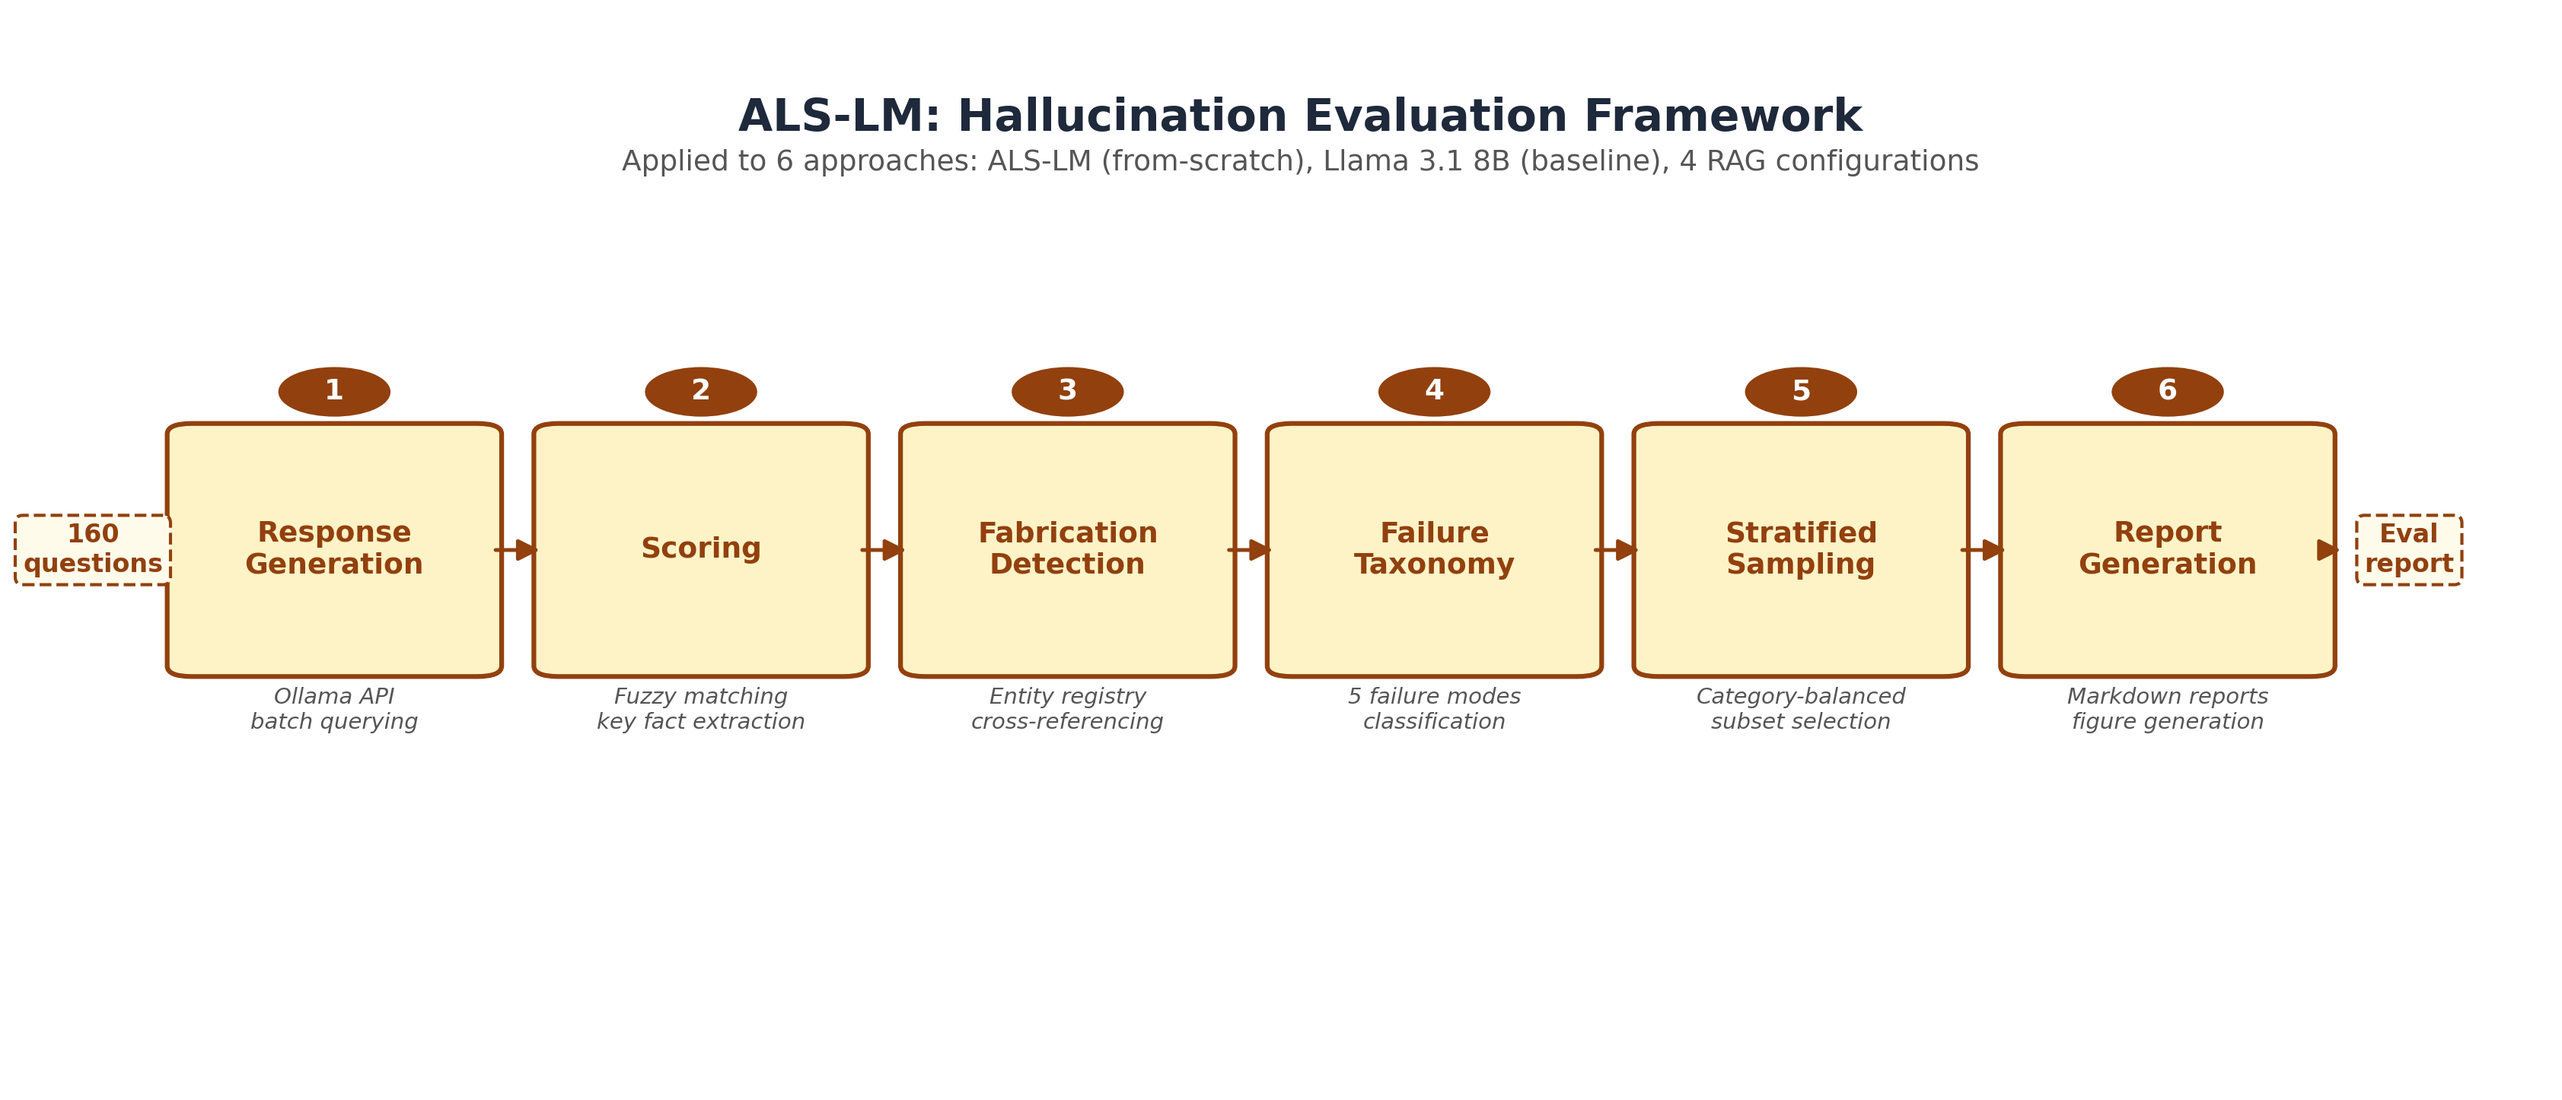
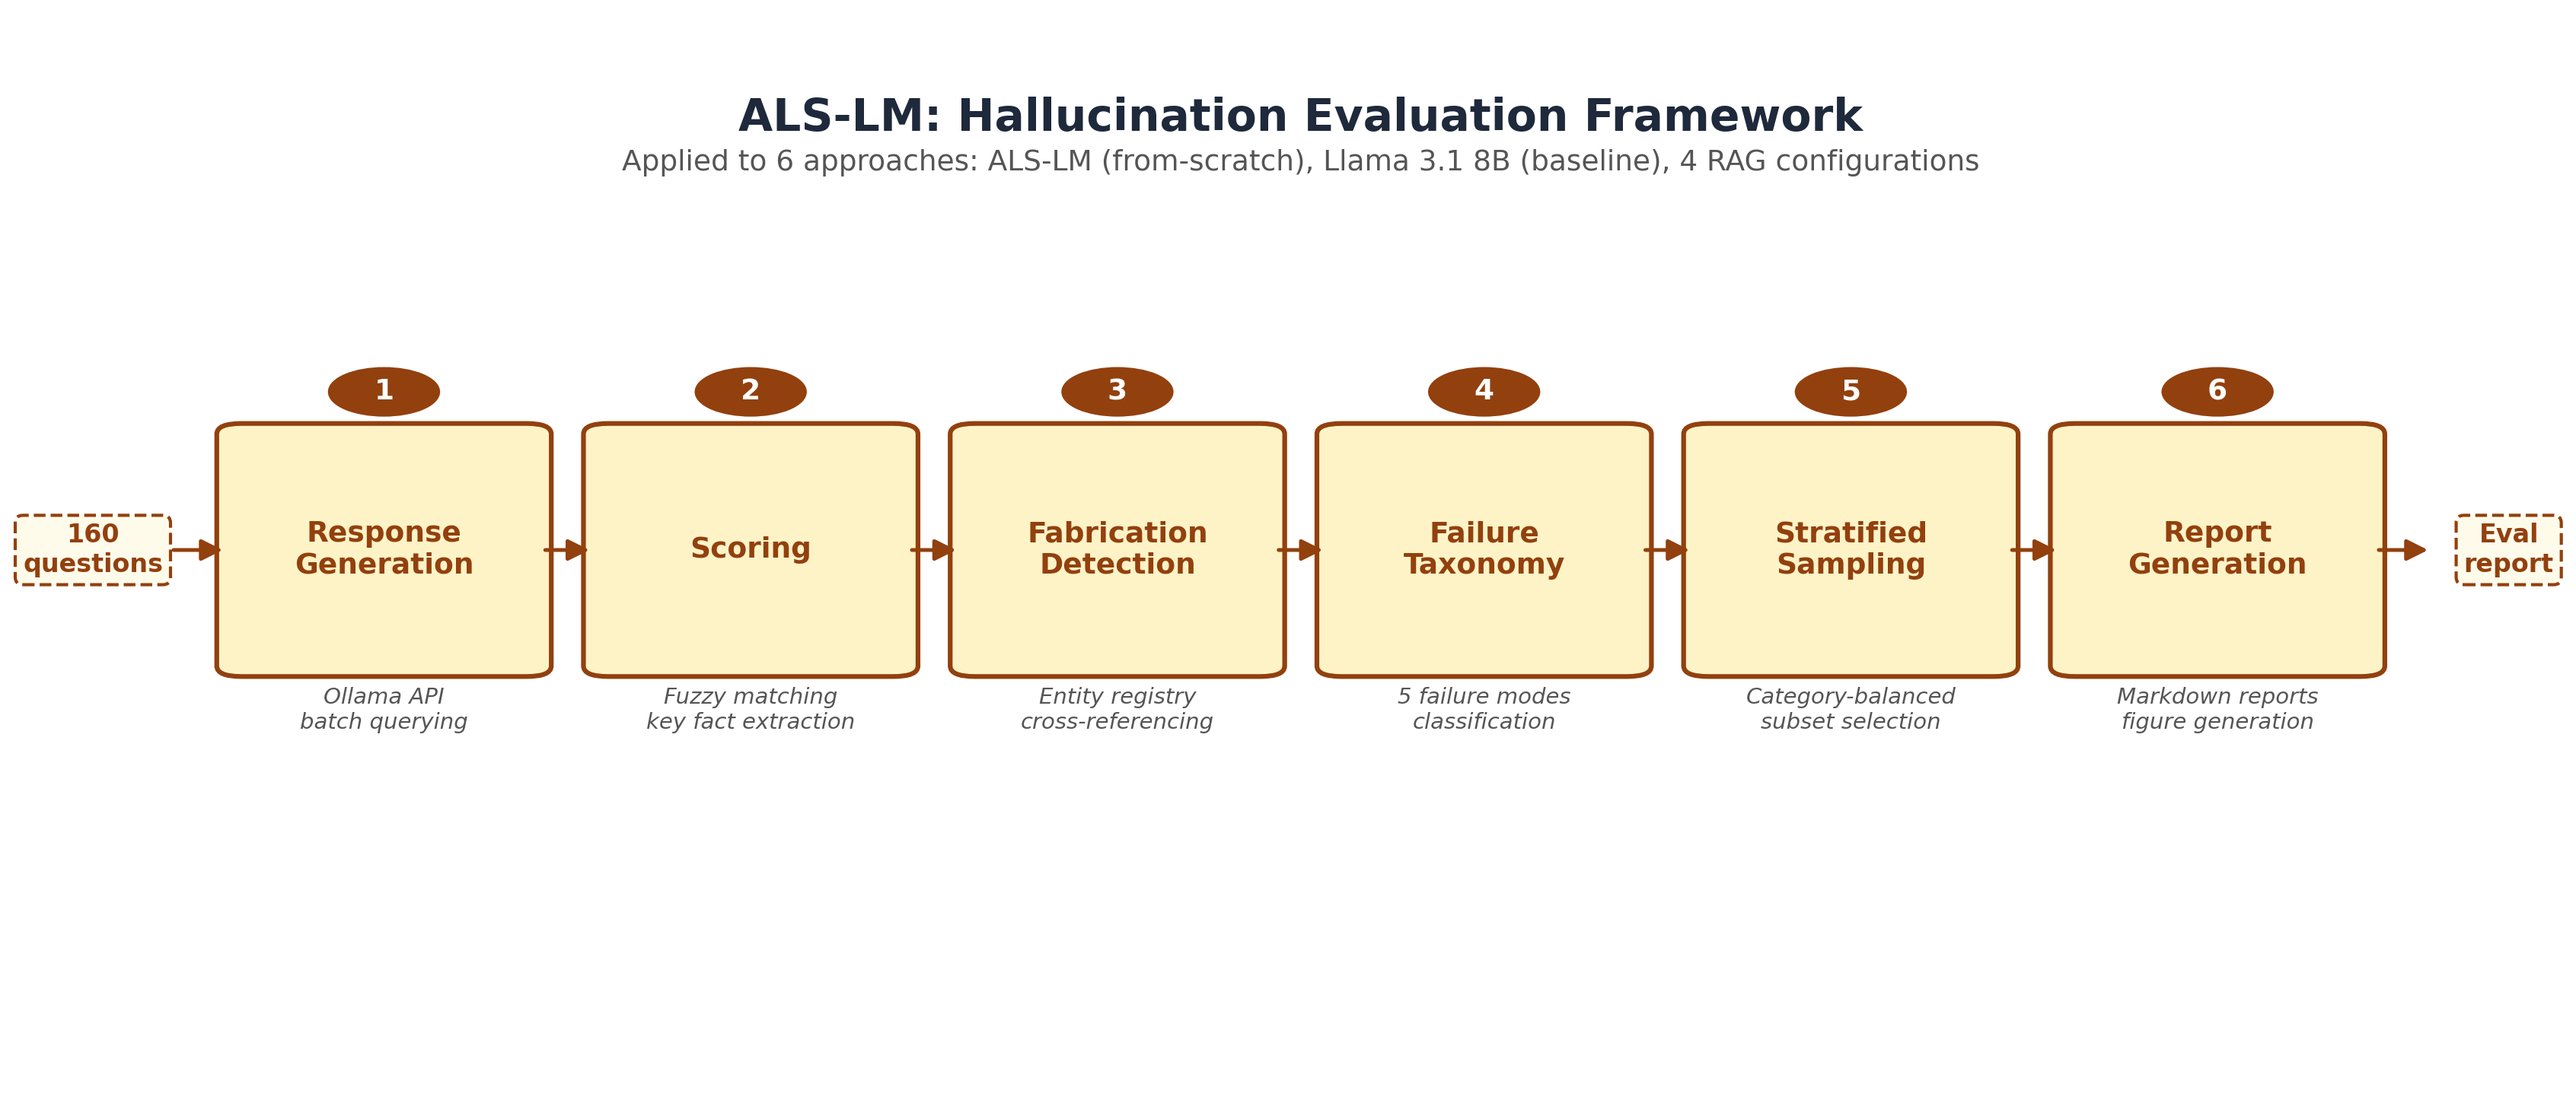
Center box layouts in pipeline and eval framework diagrams
Reposition pipeline boxes symmetrically around x=0.5 and center
eval framework stages (x_start/x_end from 0.11/0.85 to 0.13/0.87).
Move input/output labels further from stage boxes to prevent overlap.

diff --git a/scripts/generate_figures.py b/scripts/generate_figures.py
@@ -436,10 +436,10 @@ def create_pipeline_diagram(output_path: Path) -> None:
     # Row 1 (top): Data Collection, Cleaning, Tokenizer, Model Training
     row1_y = 0.72
     row1_boxes = [
-        ("Data\nCollection", 0.10, "PubMed, ClinicalTrials,\nPatient Narratives"),
-        ("Cleaning &\nDedup", 0.28, "19,164 docs"),
-        ("Tokenizer\nTraining", 0.46, "BPE, 50,257 tokens"),
-        ("Model\nTraining", 0.64, "DeepSpeed ZeRO-2\n516M params"),
+        ("Data\nCollection", 0.23, "PubMed, ClinicalTrials,\nPatient Narratives"),
+        ("Cleaning &\nDedup", 0.41, "19,164 docs"),
+        ("Tokenizer\nTraining", 0.59, "BPE, 50,257 tokens"),
+        ("Model\nTraining", 0.77, "DeepSpeed ZeRO-2\n516M params"),
     ]
 
     for label, cx, ann in row1_boxes:
@@ -467,9 +467,9 @@ def create_pipeline_diagram(output_path: Path) -> None:
 
     # Row 2 (bottom): GGUF Export, Evaluation, RAG Comparison
     row2_boxes = [
-        ("GGUF\nExport", 0.64, "Ollama-compatible"),
-        ("Hallucination\nEvaluation", 0.46, "160 questions\n6-stage pipeline"),
-        ("RAG\nComparison", 0.28, "ChromaDB\n4 configurations"),
+        ("GGUF\nExport", 0.77, "Ollama-compatible"),
+        ("Hallucination\nEvaluation", 0.59, "160 questions\n6-stage pipeline"),
+        ("RAG\nComparison", 0.41, "ChromaDB\n4 configurations"),
     ]
 
     for label, cx, ann in row2_boxes:
@@ -484,14 +484,14 @@ def create_pipeline_diagram(output_path: Path) -> None:
 
     # Final output box
     _draw_box(
-        ax, 0.10, row2_y, bw, bh,
+        ax, 0.23, row2_y, bw, bh,
         "Research\nPaper", "#e0e7ff", border,
         annotation="research-paper.md + figures",
         ann_offset=(0, -bh / 2 - 0.02),
     )
     _draw_arrow(
         ax, row2_boxes[2][1] - bw / 2 - 0.005, row2_y,
-        0.10 + bw / 2 + 0.005, row2_y,
+        0.23 + bw / 2 + 0.005, row2_y,
         color=border,
     )
 
@@ -705,8 +705,8 @@ def create_eval_framework_diagram(output_path: Path) -> None:
 
     # Spread stages evenly across the figure
     n = len(stages)
-    x_start = 0.11
-    x_end = 0.85
+    x_start = 0.13
+    x_end = 0.87
     x_positions = [x_start + i * (x_end - x_start) / (n - 1) for i in range(n)]
     stage_y = 0.50
 
@@ -735,7 +735,7 @@ def create_eval_framework_diagram(output_path: Path) -> None:
 
     # Input label (left of stage 1)
     ax.text(
-        x_positions[0] - bw / 2 - 0.04, stage_y,
+        x_positions[0] - bw / 2 - 0.06, stage_y,
         "160\nquestions",
         ha="center", va="center", fontsize=8, fontweight="bold",
         color=border,
@@ -743,14 +743,14 @@ def create_eval_framework_diagram(output_path: Path) -> None:
                   edgecolor=border, linewidth=1.0, linestyle="--"),
     )
     _draw_arrow(
-        ax, x_positions[0] - bw / 2 - 0.015, stage_y,
+        ax, x_positions[0] - bw / 2 - 0.03, stage_y,
         x_positions[0] - bw / 2 - 0.005, stage_y,
         color=border,
     )
 
     # Output label (right of stage 6)
     ax.text(
-        x_positions[-1] + bw / 2 + 0.04, stage_y,
+        x_positions[-1] + bw / 2 + 0.06, stage_y,
         "Eval\nreport",
         ha="center", va="center", fontsize=8, fontweight="bold",
         color=border,
@@ -759,7 +759,7 @@ def create_eval_framework_diagram(output_path: Path) -> None:
     )
     _draw_arrow(
         ax, x_positions[-1] + bw / 2 + 0.005, stage_y,
-        x_positions[-1] + bw / 2 + 0.015, stage_y,
+        x_positions[-1] + bw / 2 + 0.03, stage_y,
         color=border,
     )
 
